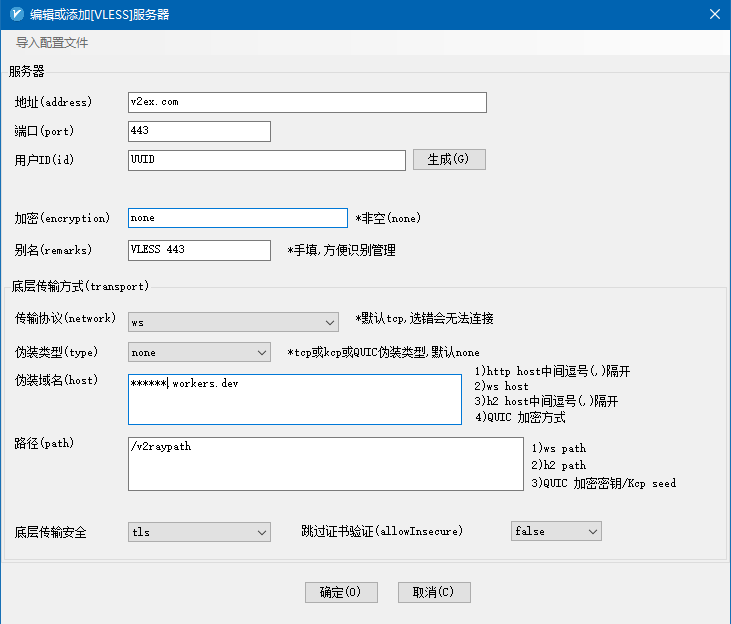
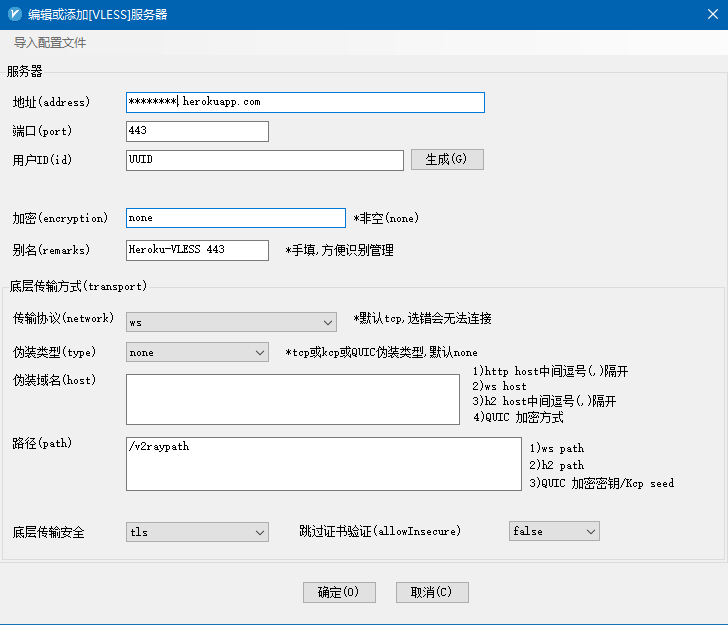
客户端v2RayN中使用

diff --git a/tutorial/电脑客户端v2RayN中使用VLESS.md b/tutorial/电脑客户端v2RayN中使用VLESS.md
@@ -16,8 +16,8 @@
 
 ***
 
-使用80端口：
+用Cloudflare反代后，使用443端口：
 
-![80端口图示](/tutorial/img/Windows-v2RayN-VLESS-80.png)
+![80端口图示](/tutorial/img/Windows-v2RayN-VLESS-443+Cloudflare.png)
 
 ***
